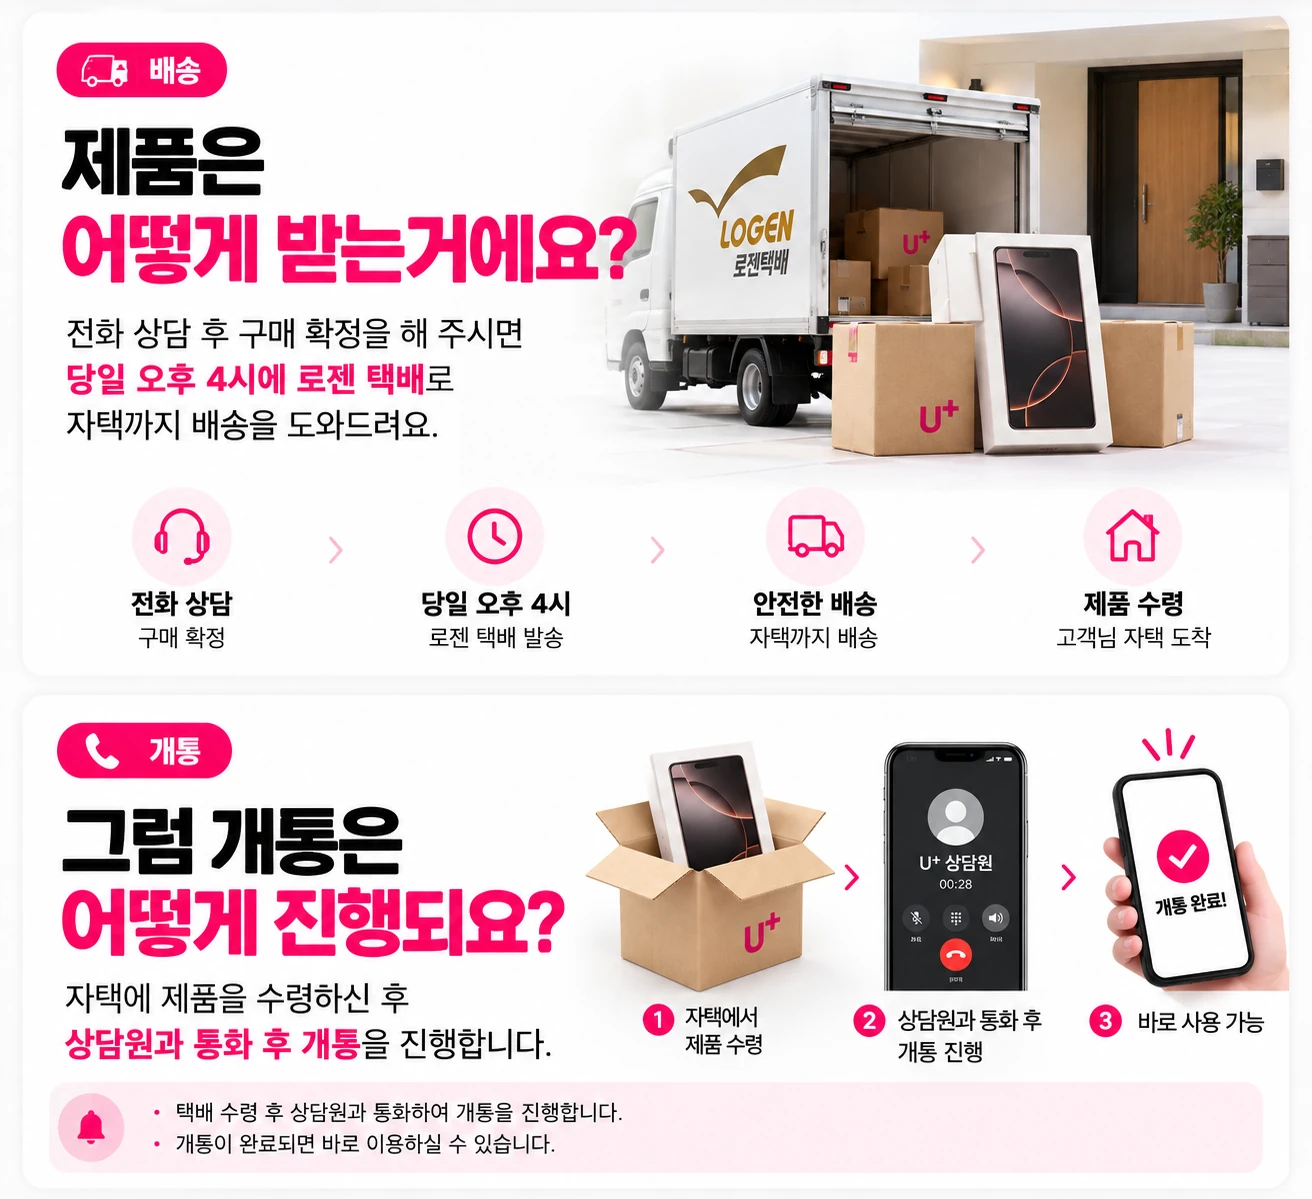
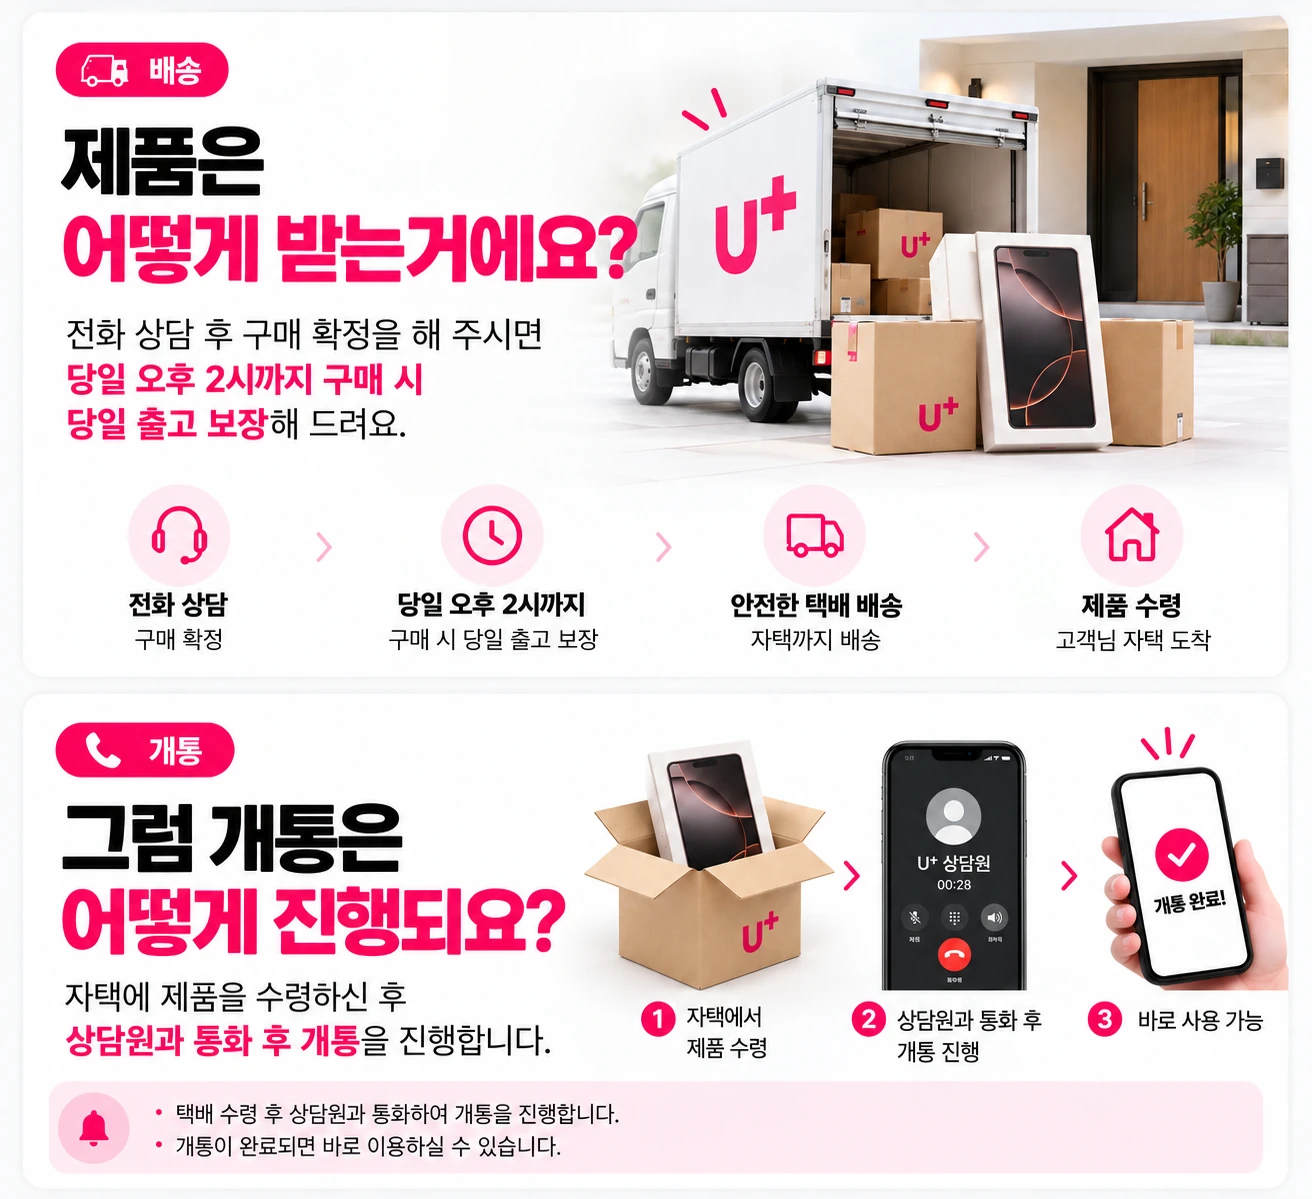
landing: 배송·개통 안내 이미지를 새 버전으로 교체(당일 오후 4시 로젠택배 → 당일 오후 2시까지 구매 시 당일 출고 보장) + 모달·/about alt 문구 갱신

diff --git a/galaxy_z8.html b/galaxy_z8.html
@@ -2960,7 +2960,7 @@ function fSubmit(){
 <div class="nav-modal-overlay" id="modalDelivery" onclick="if(event.target===this)closeNavModal('modalDelivery')">
   <div class="imgmodal-card">
     <button class="imgmodal-close" type="button" onclick="closeNavModal('modalDelivery')" aria-label="닫기">×</button>
-    <img src="/assets/about-delivery-activation.webp" width="1312" height="1199" alt="제품은 어떻게 받는거에요? 전화 상담 후 구매 확정 시 당일 오후 4시 로젠택배로 자택까지 배송, 수령 후 상담원과 통화 후 개통" decoding="async">
+    <img src="/assets/about-delivery-activation.webp" width="1312" height="1199" alt="제품은 어떻게 받는거에요? 전화 상담 후 구매 확정, 당일 오후 2시까지 구매 시 당일 출고 보장, 자택 수령 후 상담원과 통화 후 개통" decoding="async">
   </div>
 </div>
 <div class="nav-modal-overlay" id="modalFirstTime" onclick="if(event.target===this)closeNavModal('modalFirstTime')">

diff --git a/about.html b/about.html
@@ -66,7 +66,7 @@ a{text-decoration:none;color:inherit;}
   </div>
 
   <div id="delivery" style="padding:0 20px;scroll-margin-top:72px;">
-    <img class="aimgblock" src="/assets/about-delivery-activation.webp" alt="제품은 어떻게 받는거에요? 전화 상담 후 구매 확정 시 당일 오후 4시 로젠택배로 자택까지 배송 / 수령 후 상담원과 통화 후 개통">
+    <img class="aimgblock" src="/assets/about-delivery-activation.webp" alt="제품은 어떻게 받는거에요? 전화 상담 후 구매 확정, 당일 오후 2시까지 구매 시 당일 출고 보장 / 자택 수령 후 상담원과 통화 후 개통">
   </div>
 
   <div style="padding:0 20px;">
